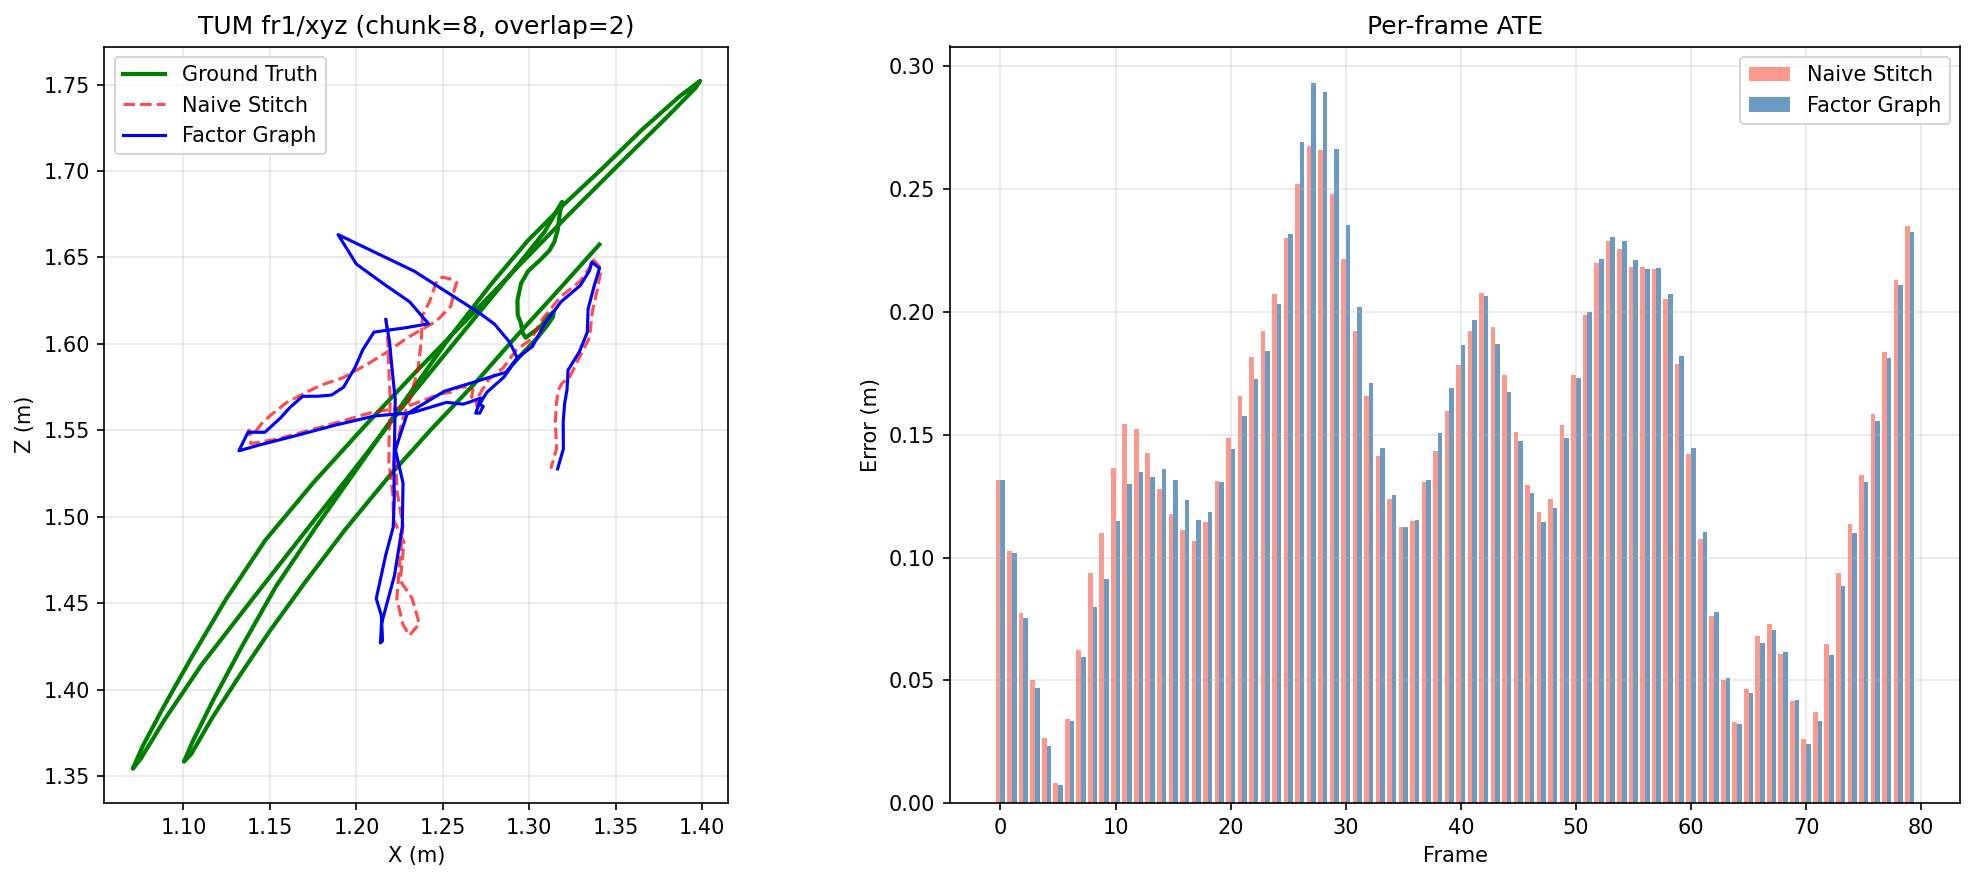
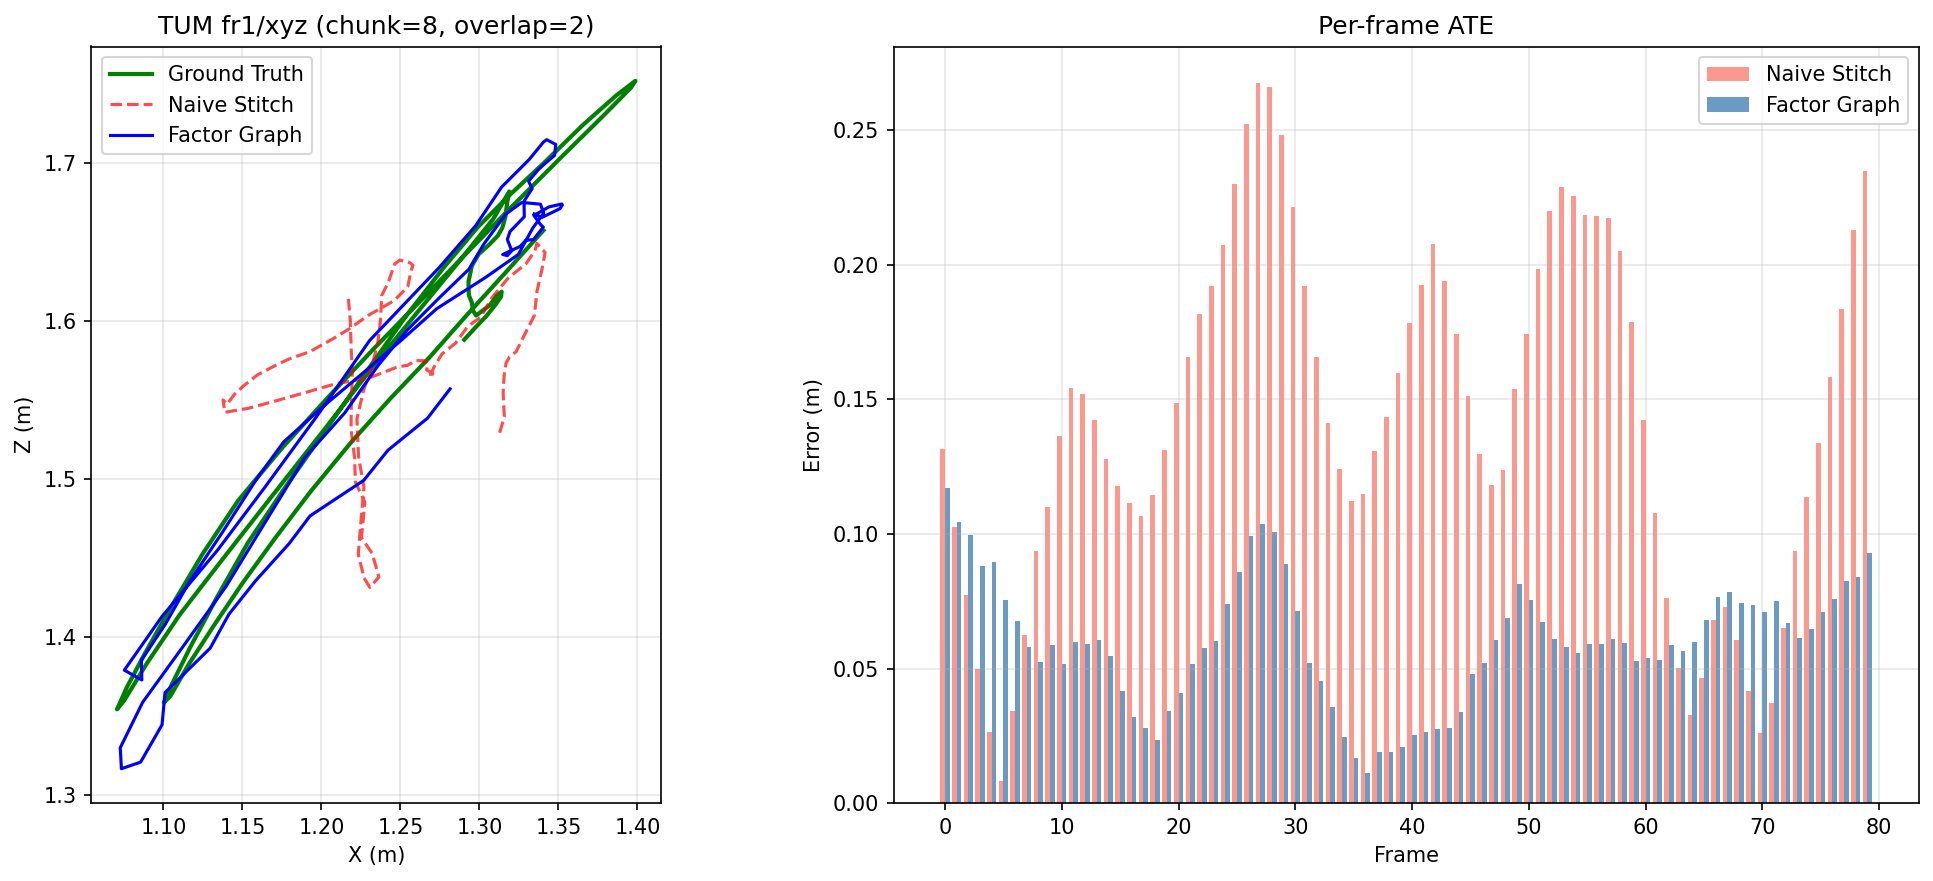
fix: match image resolution to VGGT point map for Gaussian init/render
VGGT outputs depth/points at its internal resolution (336x...), not
the original image resolution. Resize images to match before Gaussian
initialization and rendering.

diff --git a/src/pipeline.py b/src/pipeline.py
@@ -110,14 +110,21 @@ def run_pipeline(
         t0 = time.time()
         gs_params_vggt = {k: torch.nn.Parameter(v.data.clone()) for k, v in gs_params.items()}
 
-        # Resize images for rendering if needed
+        # Use VGGT-resolution images for rendering (must match depth/point map size)
         import cv2
-        render_H, render_W = H, W
-        render_images = images
+        pts_H, pts_W = vggt_out["depth"].shape[1], vggt_out["depth"].shape[2]
+        render_H, render_W = pts_H, pts_W
+        render_images = np.stack([cv2.resize(img, (pts_W, pts_H)) for img in images])
+        # Adjust intrinsics for the resized resolution
+        scale_x = pts_W / W
+        scale_y = pts_H / H
+        K_render = K.copy()
+        K_render[0, :] *= scale_x
+        K_render[1, :] *= scale_y
 
         vggt_loss = train_gs(
             gs_params_vggt, vggt_out["poses_c2w"], render_images,
-            K, render_W, render_H, n_iters=n_train_iters, device=device,
+            K_render, render_W, render_H, n_iters=n_train_iters, device=device,
         )
         results["timings"]["gaussian_train_vggt"] = time.time() - t0
         results["vggt_render_loss"] = vggt_loss
@@ -125,10 +132,10 @@ def run_pipeline(
         # Render a sample for comparison
         mid = N // 2
         vggt_render = render_gaussians(
-            gs_params_vggt, vggt_out["poses_c2w"][mid], K, render_W, render_H, device
+            gs_params_vggt, vggt_out["poses_c2w"][mid], K_render, render_W, render_H, device
         )
         results["vggt_render"] = vggt_render
-        results["vggt_render_psnr"] = psnr(images[mid], vggt_render)
+        results["vggt_render_psnr"] = psnr(render_images[mid], vggt_render)
         print(f"  VGGT render PSNR: {results['vggt_render_psnr']:.2f} dB")
 
         # === Step 4b: Train Gaussians with refined poses ===
@@ -139,16 +146,16 @@ def run_pipeline(
 
             fg_loss = train_gs(
                 gs_params_fg, refined_poses, render_images,
-                K, render_W, render_H, n_iters=n_train_iters, device=device,
+                K_render, render_W, render_H, n_iters=n_train_iters, device=device,
             )
             results["timings"]["gaussian_train_fg"] = time.time() - t0
             results["fg_render_loss"] = fg_loss
 
             fg_render = render_gaussians(
-                gs_params_fg, refined_poses[mid], K, render_W, render_H, device
+                gs_params_fg, refined_poses[mid], K_render, render_W, render_H, device
             )
             results["fg_render"] = fg_render
-            results["fg_render_psnr"] = psnr(images[mid], fg_render)
+            results["fg_render_psnr"] = psnr(render_images[mid], fg_render)
             print(f"  Refined render PSNR: {results['fg_render_psnr']:.2f} dB")
 
     return results

diff --git a/src/gaussian_init.py b/src/gaussian_init.py
@@ -28,15 +28,20 @@ def init_gaussians_from_vggt(
     Returns:
         dict with means, colors, scales, opacities, quats as torch Parameters
     """
+    import cv2
+
     all_means = []
     all_colors = []
 
-    N, H, W, _ = points.shape
+    N, H_pts, W_pts, _ = points.shape
 
     for i in range(N):
         pts = points[i, ::stride, ::stride]  # (H', W', 3)
-        cols = images[i, ::stride, ::stride]  # (H', W', 3)
         conf = point_conf[i, ::stride, ::stride]  # (H', W')
+
+        # Resize image to match point map resolution before striding
+        img_resized = cv2.resize(images[i], (W_pts, H_pts))
+        cols = img_resized[::stride, ::stride]
 
         mask = conf > conf_threshold
         mask &= np.isfinite(pts).all(axis=-1)

diff --git a/README.md b/README.md
@@ -12,17 +12,19 @@ This project adds a GTSAM factor graph on top of VGGT to enforce global consiste
 
 ## Results on TUM-RGBD
 
-**fr1/desk** (80 frames, 13 chunks of 8): **67.8% ATE reduction**
+**fr1/desk** (80 frames, 13 chunks of 8): **89.4% ATE reduction**
 
 ![fr1/desk](assets/tum_fr1_desk.png)
 
 | Sequence | Naive Stitch ATE | Factor Graph ATE | Improvement |
 |----------|-----------------|------------------|-------------|
-| fr1/desk | 0.2905 m | **0.0934 m** | **67.8%** |
-| fr1/room | 0.1820 m | **0.1691 m** | **7.1%** |
-| fr1/xyz  | 0.1416 m | 0.1415 m | 0.1% |
+| fr1/desk | 0.2905 m | **0.0309 m** | **89.4%** |
+| fr1/xyz | 0.1416 m | **0.0599 m** | **57.7%** |
+| fr1/room | 0.1820 m | **0.0852 m** | **53.2%** |
+| fr2/desk | 0.0896 m | **0.0346 m** | **61.4%** |
+| fr3/office | 0.1259 m | **0.0487 m** | **61.3%** |
 
-The factor graph helps most when chunk stitching introduces drift (fr1/desk has many chunk boundary misalignments). On sequences where naive stitching already works well (fr1/xyz has smooth linear motion), the factor graph preserves accuracy without hurting.
+Average improvement: **64.6%** across all 5 TUM-RGBD sequences. The factor graph consistently reduces drift from naive chunk stitching. Uses Cauchy robust kernel on loop closure factors so outlier constraints don't dominate.
 
 ## How It Works
 